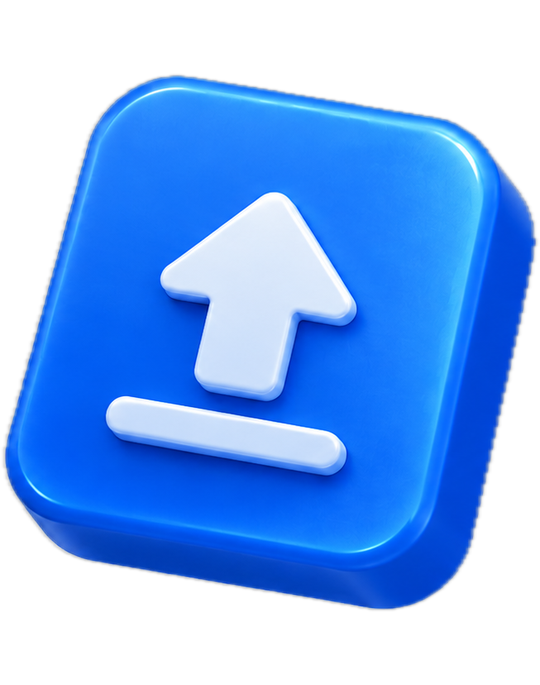
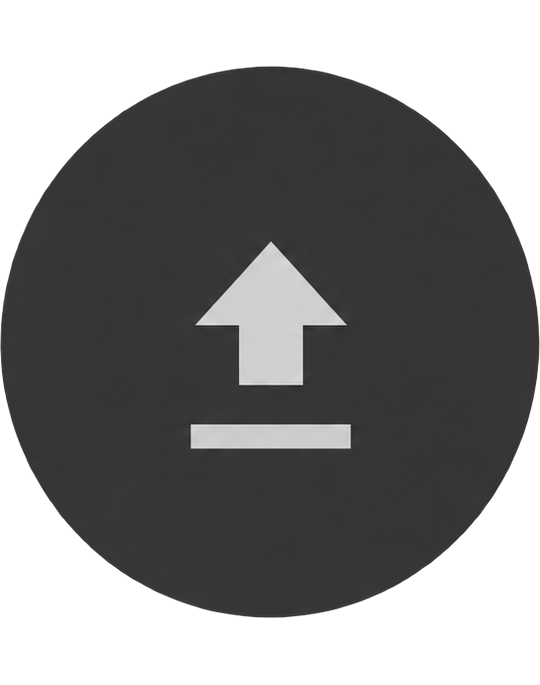
programme: nouvelle icone de telechargement sur la miniature Poster (memes valeurs et meme taille), fleche RPM en miroir

diff --git a/app/globals.css b/app/globals.css
@@ -1048,3 +1048,6 @@ body::before {
 @media (max-width: 767px) {
   [data-yma="yma-mini-test"] .yma-mini-img[src$="module-19.png"] { transform: translate(-14px, 22px) scale(1.35) !important; transform-origin: center bottom !important; }
 }
+
+/* yma-fleche-miroir-v2 : fleche RPM (module 20) retournee en miroir horizontal, meme taille (1.15), meme rotation (-10deg) et meme place, PC et telephone */
+[data-yma="yma-mini-test"] .yma-mini-img[src$="module-20.png"] { transform: scaleX(-1) rotate(-10deg) scale(1.15) !important; transform-origin: center bottom !important; }
